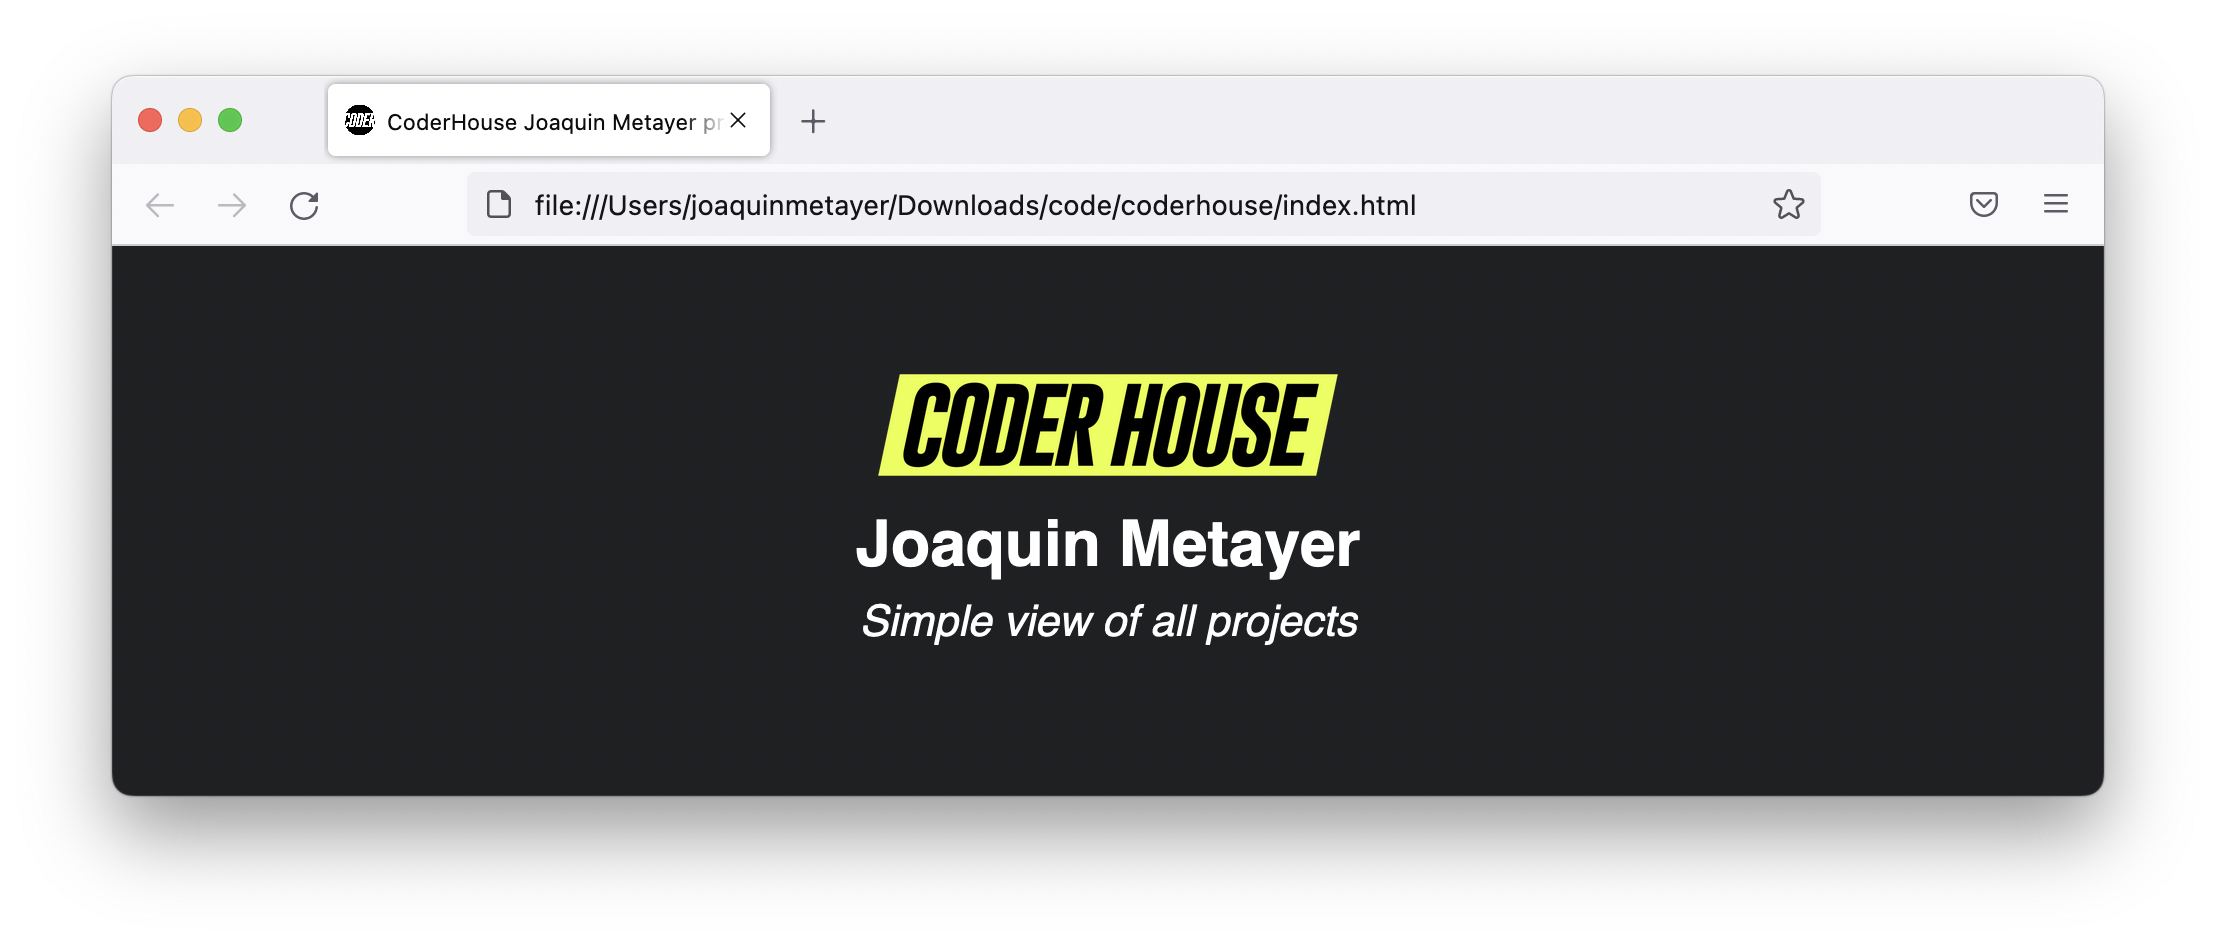
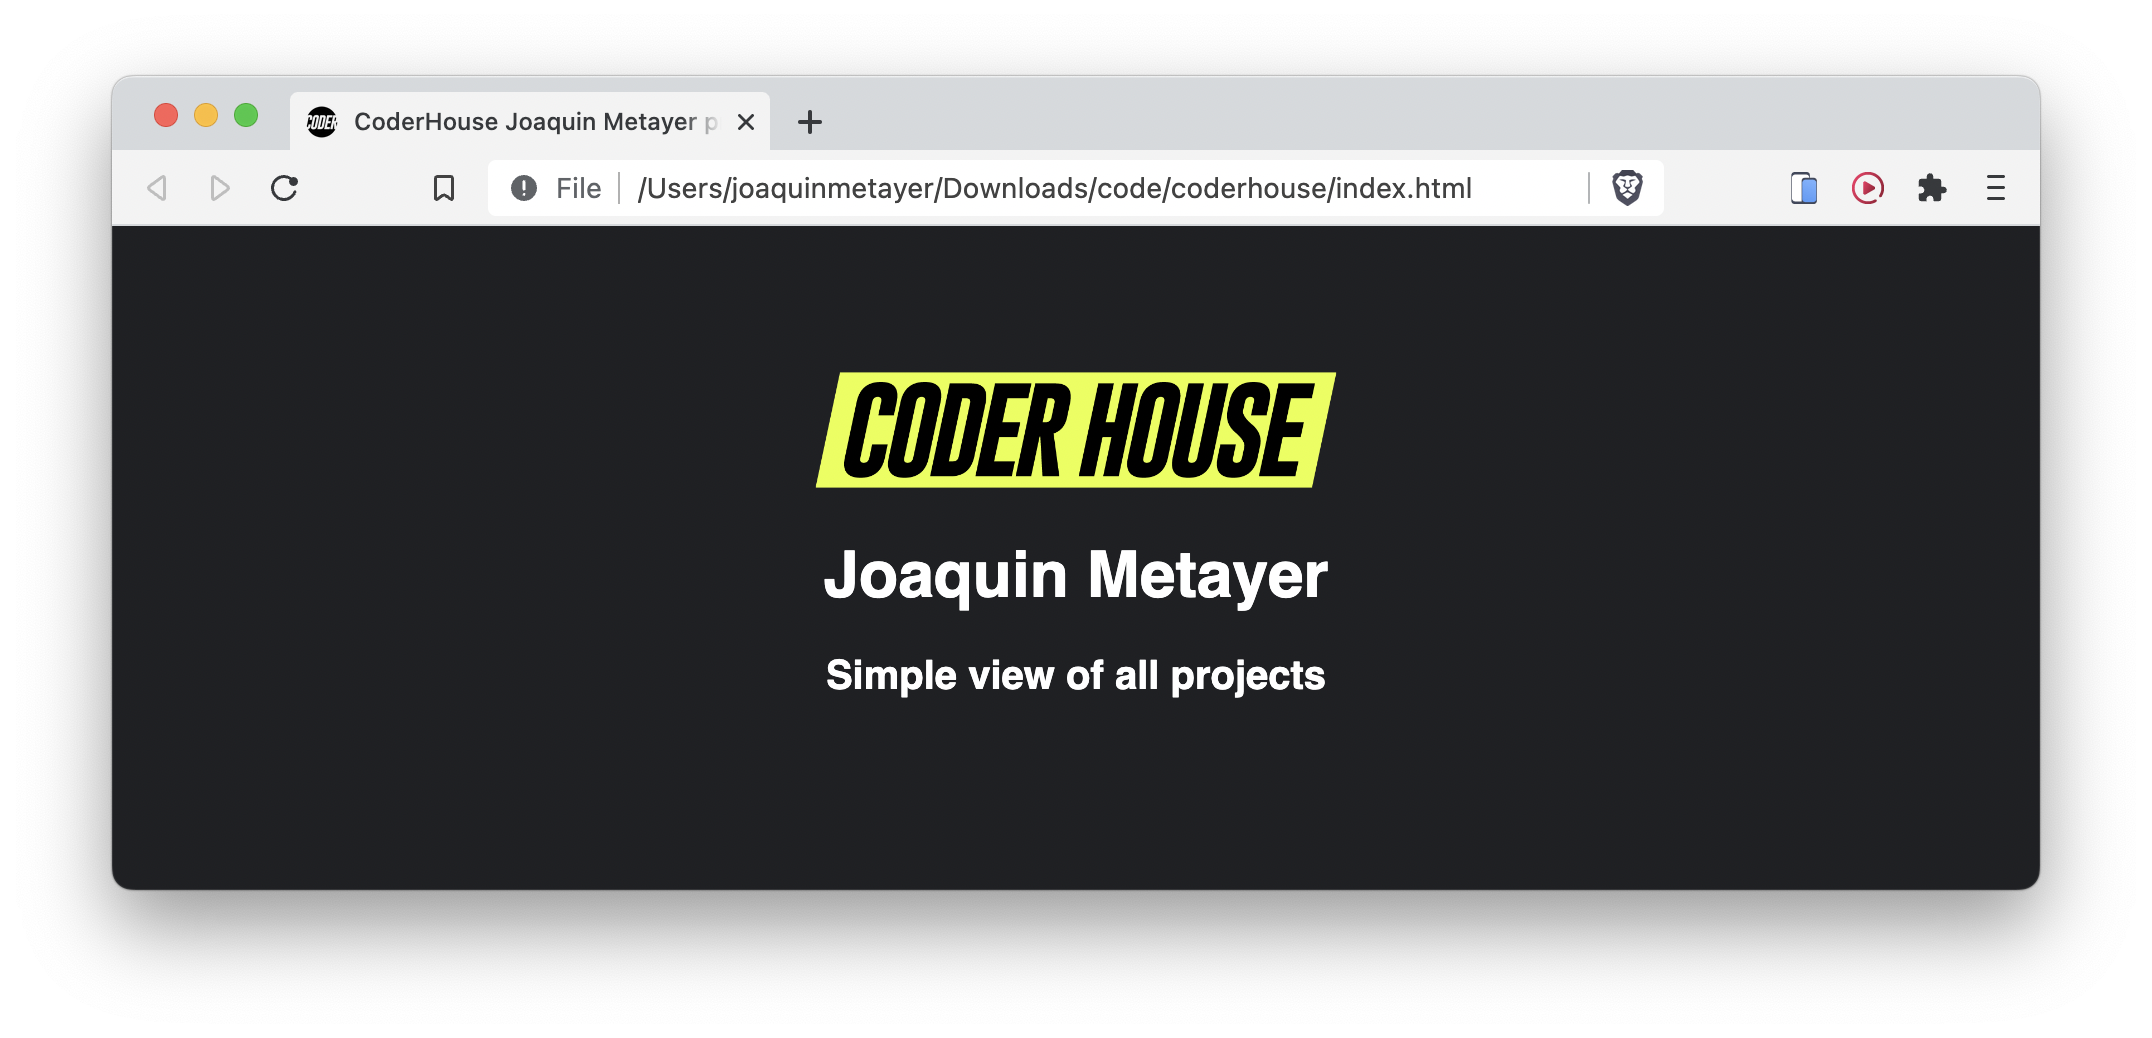
31

Changed region(s): [[0.0311, 0.0614, 0.9651, 0.2765], [0.3736, 0.3379, 0.6227, 0.6758], [0.0311, 0.8294, 0.9651, 0.8602]]

diff --git a/styles.css b/styles.css
@@ -1,59 +1,38 @@
+
 *{
     background-color: #1F2023;
     max-width: 30em;
     margin: auto;
+    scroll-behavior: smooth;
     color: rgb(255, 255, 255);
     font-family: sans-serif;
 }
 body{
-    margin:0;
     padding:1em;
 }
 .description{
-    font-size: 1.35em;
-    padding: 00.5em;
-    font-style: italic;
-}
-.descriptioncourse{
     font-size: 1.25em;
-    padding: 00.5em;
+    padding: 1em;
     font-weight: bold;
     text-align: center;
 }
-.content{
+.lista{
     padding-top: 1em;
     padding-bottom: 1em;
-    text-align: left;
+    font-size: 1.1em;
 }
-.finallyproject {
-    text-align: center;
-    padding: 1em;
-    font-size: 1.20em;
-}
+
 img{
     border-radius: 10px;
-    max-width: 100%;
+    max-width: 20em;
+    display: flex;
+    justify-content: center;
+    align-items: center;
 }
-.certification{
-    padding: 1em;
-    text-align: center;
-    font-size: 1.5em;
-    font-weight: bold;
-}
-.certificationbox{
-    padding-top: 1em;
-    padding-bottom: 1em;
-}
-.logo{
 
-    padding: 0.5em;
-    max-width: 15em;
-}
-.seegit{
-    font-size: 1em;
+.logo{
     padding: 1em;
-    font-weight: bold;
-    text-align: center;
+    max-width: 17em;
 }
 .entry{
     display: flex;
@@ -62,16 +41,22 @@ img{
     flex-direction: column;
     text-align: center;
     padding-top: 2em;
-
 }
 li{
-    margin: 0.25em;
     list-style: none;
+    width: 20em;
 }
-ul{
-    margin: 0.5em;
+
+hr{
+    size: 1px;
+    color: #ffff;
+    margin-top: 1em;
+    margin-bottom: 1em;
+    max-width: 18em;
 }
-.center{
+
+.titulo{
     text-align: center;
-    padding-bottom: 0.5em;
+    font-weight: bold;
+    padding: 0.5em;
 }

diff --git a/index.html b/index.html
@@ -11,11 +11,11 @@
             <h1>Joaquin Metayer</h1>
             <p class="description">Simple view of all projects</p>
         </div>
-        <div class="content">
-            <h2 class="center"> </h2>
-            <p class="descriptioncourse"> </p>
+        <div >
+            <h2 > </h2>
+            <p > </p>
             <ul>
-                <li><a href="./" target="_blank"></a></li>
+                <li><a></a></li>
             </ul>
         </div>
     </body>
